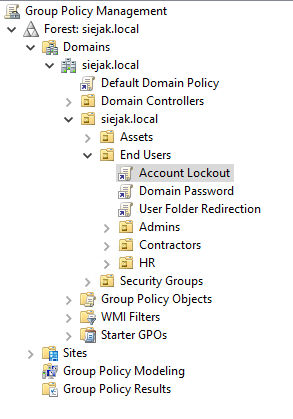
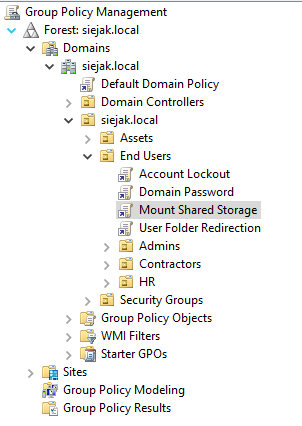
Add configuration of Win 11 machine

Changed region(s): [[0.0, 0.0, 1.0, 0.9928]]

diff --git a/04-hyperv/README.md b/04-hyperv/README.md
@@ -29,6 +29,14 @@ This section documents a Windows 11 Enterprise virtual machine running on Hyper-
 
 The Windows 11 VM is joined to the Active Directory domain (siejak.local).
 
+### Configuration
+
+Installed RSAT for managing the Windows Server on the desktop.
+
+### Verification
+
+I checked whether all applied GPOs, shared drive (permissions) worked like expected.
+
 ## Screenshots
 
 ### VM Settings
@@ -36,4 +44,13 @@ The Windows 11 VM is joined to the Active Directory domain (siejak.local).
 ![VM settings](./screenshots/vmsettings.png)
 
 ### Domain verification (systeminfo output)
+
 ![VM settings](./screenshots/systeminfo.png)
+
+### Resultant Set Of Policy
+
+![RSOP](./screenshots/rsop.png)
+
+### RSAT
+
+![RSAT](./screenshots/rsat.png)

diff --git a/03-windowsserver2022/fileserver.md b/03-windowsserver2022/fileserver.md
@@ -33,26 +33,13 @@ The file server provides centralized storage for user profiles and shared folder
 
 * **Local path:** S:\Shares\Shared  
 * **Network path:** \\WINSERV-01\Shared  
-* **Share permissions:** Authenticated Users - Read-only
-* **NTFS permissions:**
-  * Domain Users – Read-only  
-  * Administrators – Full Control
 * **Purpose:** Shared file storage
 
 ### UserData$  
 
 - **Local path:** S:\Shares\UserData  
 - **Network path:** \\WINSERV-01\UserData  
-- **Share permissions:** 
-  - Authenticated Users - Change
-  - Domain Admins Full Control
-- **NTFS permissions:**
-  - Authenticated Users – Read, write & execute
-  - Domain Admins – Full Control
 - **Purpose:** User folder redirection storage
-
-
-
 
 ## Screenshots
 

diff --git a/03-windowsserver2022/addc.md b/03-windowsserver2022/addc.md
@@ -28,6 +28,13 @@ Brute force attack prevention.
 * **Allow administrator account lockout** Enabled 
 * **Reset account lockout counter after** 30 minutes 
 
+### Shared Drive Mapping
+
+* **Letter** S 
+* **Location** \\WINSERV-01\Shared 
+* **Reconnect** Disabled 
+* **Label as** Shared Drive 
+
 
 ## Screenshots
 
@@ -54,4 +61,8 @@ Brute force attack prevention.
 ### Account Lockout Policy
 
 ![OU](./screenshots/lockout.png)
+
+### Mapping Drive Policy
+
+![OU](./screenshots/mapping.png)
 

diff --git a/01-infrastructure/lan.md b/01-infrastructure/lan.md
@@ -5,7 +5,6 @@
 This page describes my lab's LAN.
 
 ## IP Adressing
-* **IPv6:** Disabled
 * **Network:** 192.168.254.0
 * **Subnet:** 255.255.255.0
 * **Gateway:** 192.168.254.1